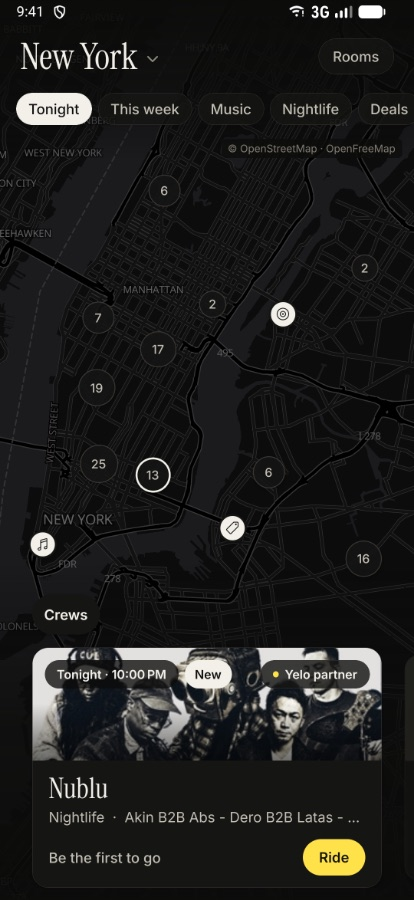
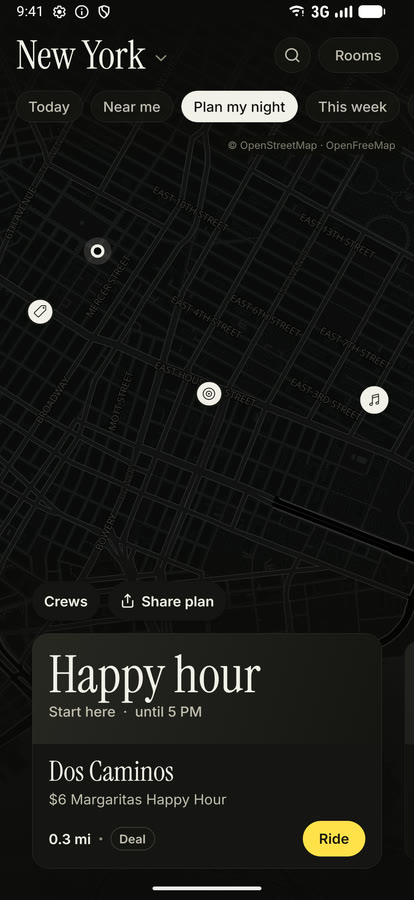
Site hero: current app, Plan my night (#43)

diff --git a/site/index.html b/site/index.html
@@ -164,7 +164,7 @@
       </div>
     </div>
 
-    <div class="phone"><img src="shot-map.jpg" alt="Scout's home screen: New York tonight, five filters, numbered bubbles across Manhattan, and a card for Nublu, a Yelo partner, tonight at 10 PM, marked New" width="414" height="900"></div>
+    <div class="phone"><img src="shot-map.jpg" alt="Scout in New York with Plan my night on: three stops on the map, a Share plan button, and the first stop, Dos Caminos, a happy hour until 5 PM marked Start here" width="414" height="900"></div>
   </div>
 
   <section aria-labelledby="inside">
